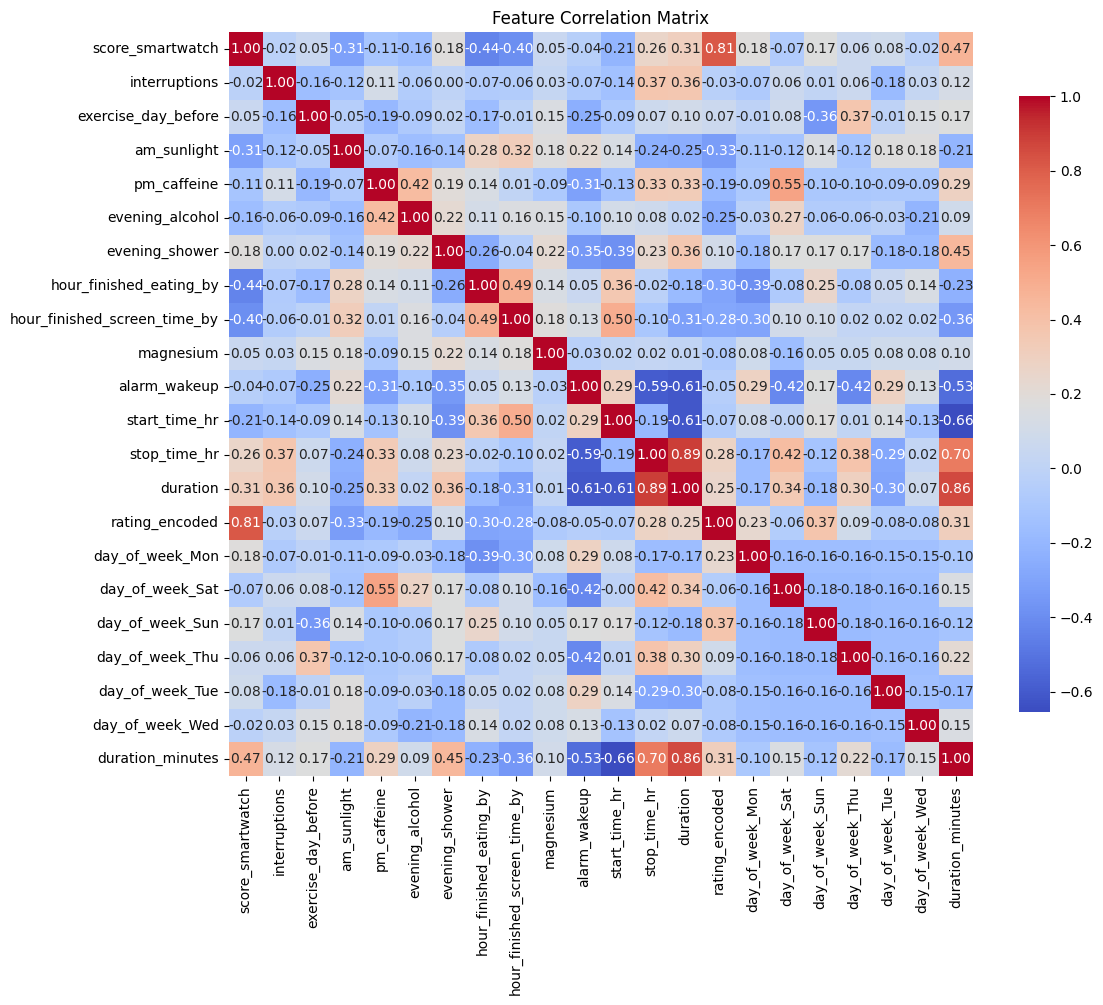
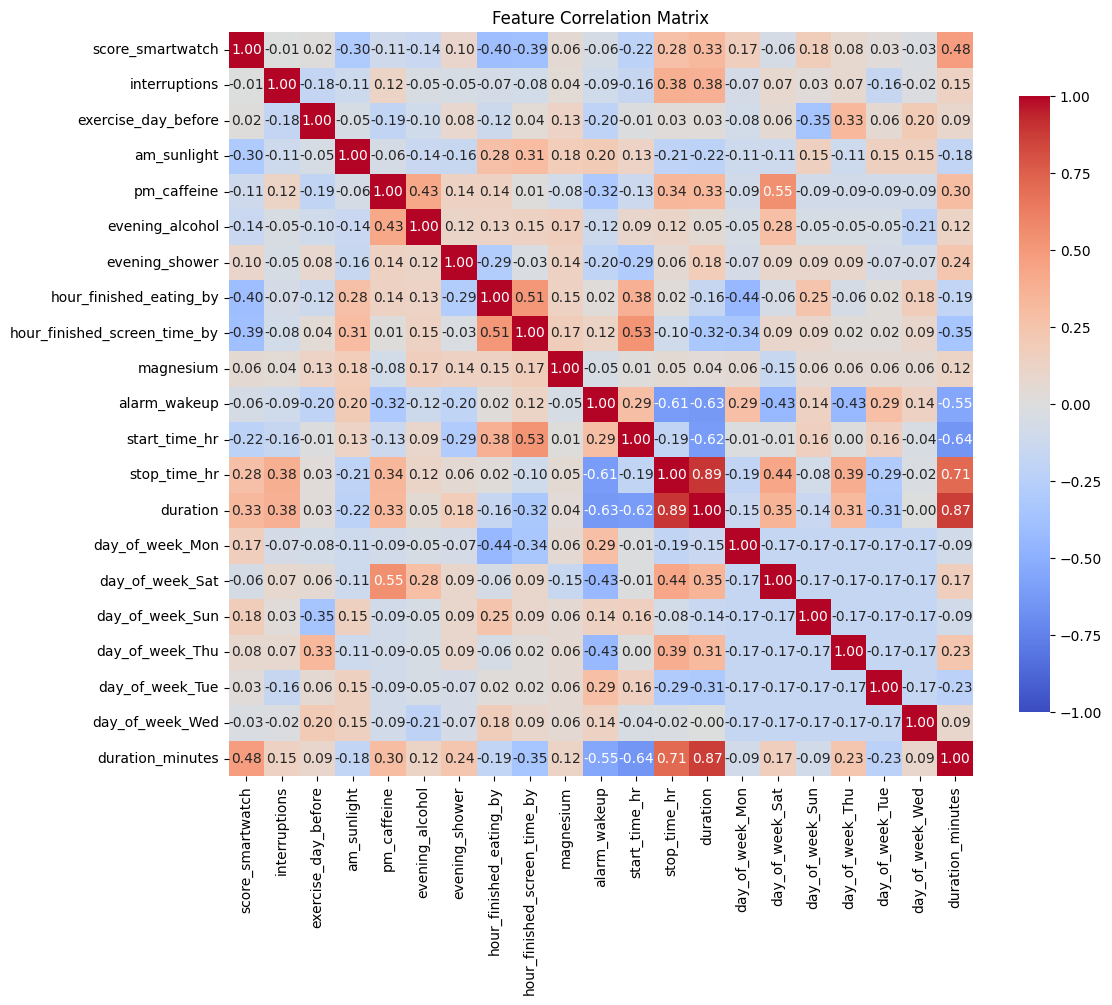
Feature correlation heatmap improvements

diff --git a/model.py b/model.py
@@ -10,7 +10,7 @@ df = process_data.process_data(filename="sleep.csv")
 df = df.dropna()
 
 # Encode the target variable
-df['rating_encoded'] = df['rating_smartwatch'].map({'Good': 2, 'Fair': 1, 'Poor': 0})
+# df['rating_encoded'] = df['rating_smartwatch'].map({'Good': 2, 'Fair': 1, 'Poor': 0})
 
 # One-hot encode the 'day_of_week' column
 df = pd.get_dummies(df, columns=['day_of_week'], drop_first=True)  # drop_first to avoid multicollinearity
@@ -42,7 +42,9 @@ correlation_matrix = df.corr()
 
 # Visualize the correlation matrix
 plt.figure(figsize=(12, 10))
-sns.heatmap(correlation_matrix, annot=True, fmt=".2f", cmap='coolwarm', square=True, cbar_kws={"shrink": .8})
+sns.heatmap(correlation_matrix, annot=True, fmt=".2f",
+            cmap='coolwarm', vmin=-1, vmax=1, center=0,
+            square=True, cbar_kws={"shrink": .8})
 plt.title('Feature Correlation Matrix')
 plt.savefig('feature_correlation_matrix.png',  bbox_inches='tight')
 plt.clf()
